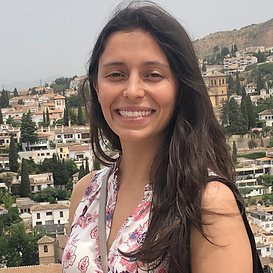
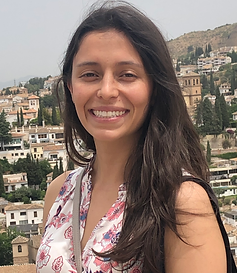
Added training and QA to people

diff --git a/docs/people.html b/docs/people.html
@@ -130,8 +130,8 @@ ul.task-list li input[type="checkbox"] {
   <ul>
   <li><a href="#project-leadership" id="toc-project-leadership" class="nav-link active" data-scroll-target="#project-leadership">Project Leadership</a></li>
   <li><a href="#local-site-investigators" id="toc-local-site-investigators" class="nav-link" data-scroll-target="#local-site-investigators">Local Site Investigators</a></li>
-  <li><a href="#databrary-directors" id="toc-databrary-directors" class="nav-link" data-scroll-target="#databrary-directors">Databrary Directors</a></li>
   <li><a href="#training-and-quality-assurance" id="toc-training-and-quality-assurance" class="nav-link" data-scroll-target="#training-and-quality-assurance">Training and Quality Assurance</a></li>
+  <li><a href="#databrary-directors" id="toc-databrary-directors" class="nav-link" data-scroll-target="#databrary-directors">Databrary Directors</a></li>
   </ul>
 </nav>
     </div>
@@ -167,9 +167,9 @@ ul.task-list li input[type="checkbox"] {
 </colgroup>
 <tbody>
 <tr class="odd">
-<td><img src="pics/people-cathie.png" class="img-fluid" width="200"></td>
-<td><img src="pics/people-karen.png" class="img-fluid" width="200"></td>
-<td><img src="pics/people-cristine.jpeg" class="img-fluid" width="199"></td>
+<td><img src="pics/people-cathie.png" class="img-fluid" width="225"></td>
+<td><img src="pics/people-karen.png" class="img-fluid" width="225"></td>
+<td><img src="pics/people-cristine.jpeg" class="img-fluid" width="224"></td>
 </tr>
 <tr class="even">
 <td><strong>Catherine Tamis-LeMonda</strong><br>
@@ -191,8 +191,8 @@ University of Texas, Austin</td>
 </colgroup>
 <tbody>
 <tr class="odd">
-<td><img src="pics/people-jihyun.jpg" class="img-fluid" width="200"></td>
-<td><img src="pics/people-florrie.jpg" class="img-fluid" width="214"></td>
+<td><img src="pics/people-jihyun.jpg" class="img-fluid" width="210"></td>
+<td><img src="pics/people-florrie.jpg" class="img-fluid" width="224"></td>
 </tr>
 <tr class="even">
 <td><strong>Ji-hyun Song</strong><br>
@@ -206,41 +206,47 @@ Hong Kong</td>
 </table>
 <p>As project scope expands, additional investigators will be added to the project.</p>
 </section>
-<section id="databrary-directors" class="level1">
-<h1>Databrary Directors</h1>
-<table class="table">
-<colgroup>
-<col style="width: 30%">
-<col style="width: 33%">
-</colgroup>
-<tbody>
-<tr class="odd">
-<td><strong>Karen Adolph</strong><br>
-New York University</td>
-<td><strong>Rick Gilmore</strong><br>
-Penn State University</td>
-</tr>
-</tbody>
-</table>
-</section>
 <section id="training-and-quality-assurance" class="level1">
 <h1>Training and Quality Assurance</h1>
 <table class="table">
 <colgroup>
-<col style="width: 22%">
-<col style="width: 22%">
-<col style="width: 30%">
-<col style="width: 22%">
+<col style="width: 24%">
+<col style="width: 26%">
+<col style="width: 23%">
+<col style="width: 24%">
 </colgroup>
 <tbody>
 <tr class="odd">
+<td><img src="pics/people-kasey.png" class="img-fluid" width="150"></td>
+<td><img src="pics/people-catalina.png" class="img-fluid" width="173"></td>
+<td><img src="pics/people-orit.jpg" class="img-fluid" width="150"></td>
+<td><img src="pics/people-kristy.png" class="img-fluid" width="149"></td>
+</tr>
+<tr class="even">
 <td><strong>Kasey Soska</strong><br>
-New York University</td>
-<td><strong>Orit Herzberg</strong><br>
 New York University</td>
 <td><strong>Catalina Saurez-Rivera</strong><br>
 University College London</td>
+<td><strong>Orit Herzberg</strong><br>
+New York University</td>
 <td><strong>Kristy Lai</strong><br>
+New York University</td>
+</tr>
+</tbody>
+</table>
+</section>
+<section id="databrary-directors" class="level1">
+<h1>Databrary Directors</h1>
+<table class="table">
+<colgroup>
+<col style="width: 33%">
+<col style="width: 30%">
+</colgroup>
+<tbody>
+<tr class="odd">
+<td>Rick Gilmore<br>
+Penn State University</td>
+<td>Karen Adolph<br>
 New York University</td>
 </tr>
 </tbody>

diff --git a/docs/thesample.html b/docs/thesample.html
@@ -224,7 +224,6 @@ ul.task-list li input[type="checkbox"] {
     style QA2 fill:#f0f5f5,color:#000000
     style Script color:#000000
   end
-  
 </pre>
 </div>
 <p></p></figure><p></p>
